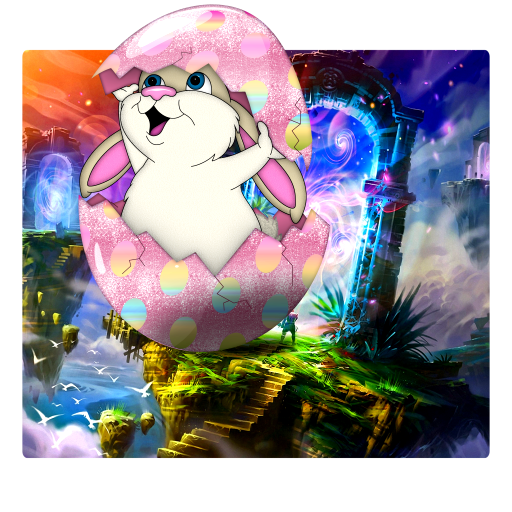
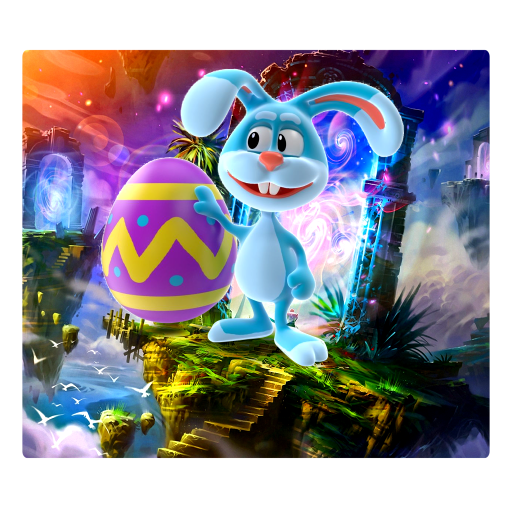
image update

Changed region(s): [[0.125, 0.0, 0.8125, 0.7188]]

diff --git a/index.html b/index.html
@@ -225,7 +225,7 @@
           <div class="slide">
             <div class="slide-card">
               <div class="single-card">
-                <img src="./img/bunny gif 512x512.gif" alt="" />
+                <img src="./img/bunny gif 512x512.png" alt="" />
                 <div class="card-content">
                   <h2>Name: <span>?</span></h2>
                   <h3>Speciality: <span>?</span></h3>
@@ -234,7 +234,7 @@
                 </div>
               </div>
               <div class="single-card">
-                <img src="./img/sl2.gif" alt="" />
+                <img src="./img/sl2.png" alt="" />
                 <div class="card-content">
                   <h2>Name: <span>?</span></h2>
                   <h3>Speciality: <span>?</span></h3>
@@ -243,7 +243,7 @@
                 </div>
               </div>
               <div class="single-card">
-                <img src="./img/512x512 2.gif" alt="" />
+                <img src="./img/512x512 2.png" alt="" />
                 <div class="card-content">
                   <h2>Name: <span>?</span></h2>
                   <h3>Speciality: <span>?</span></h3>
